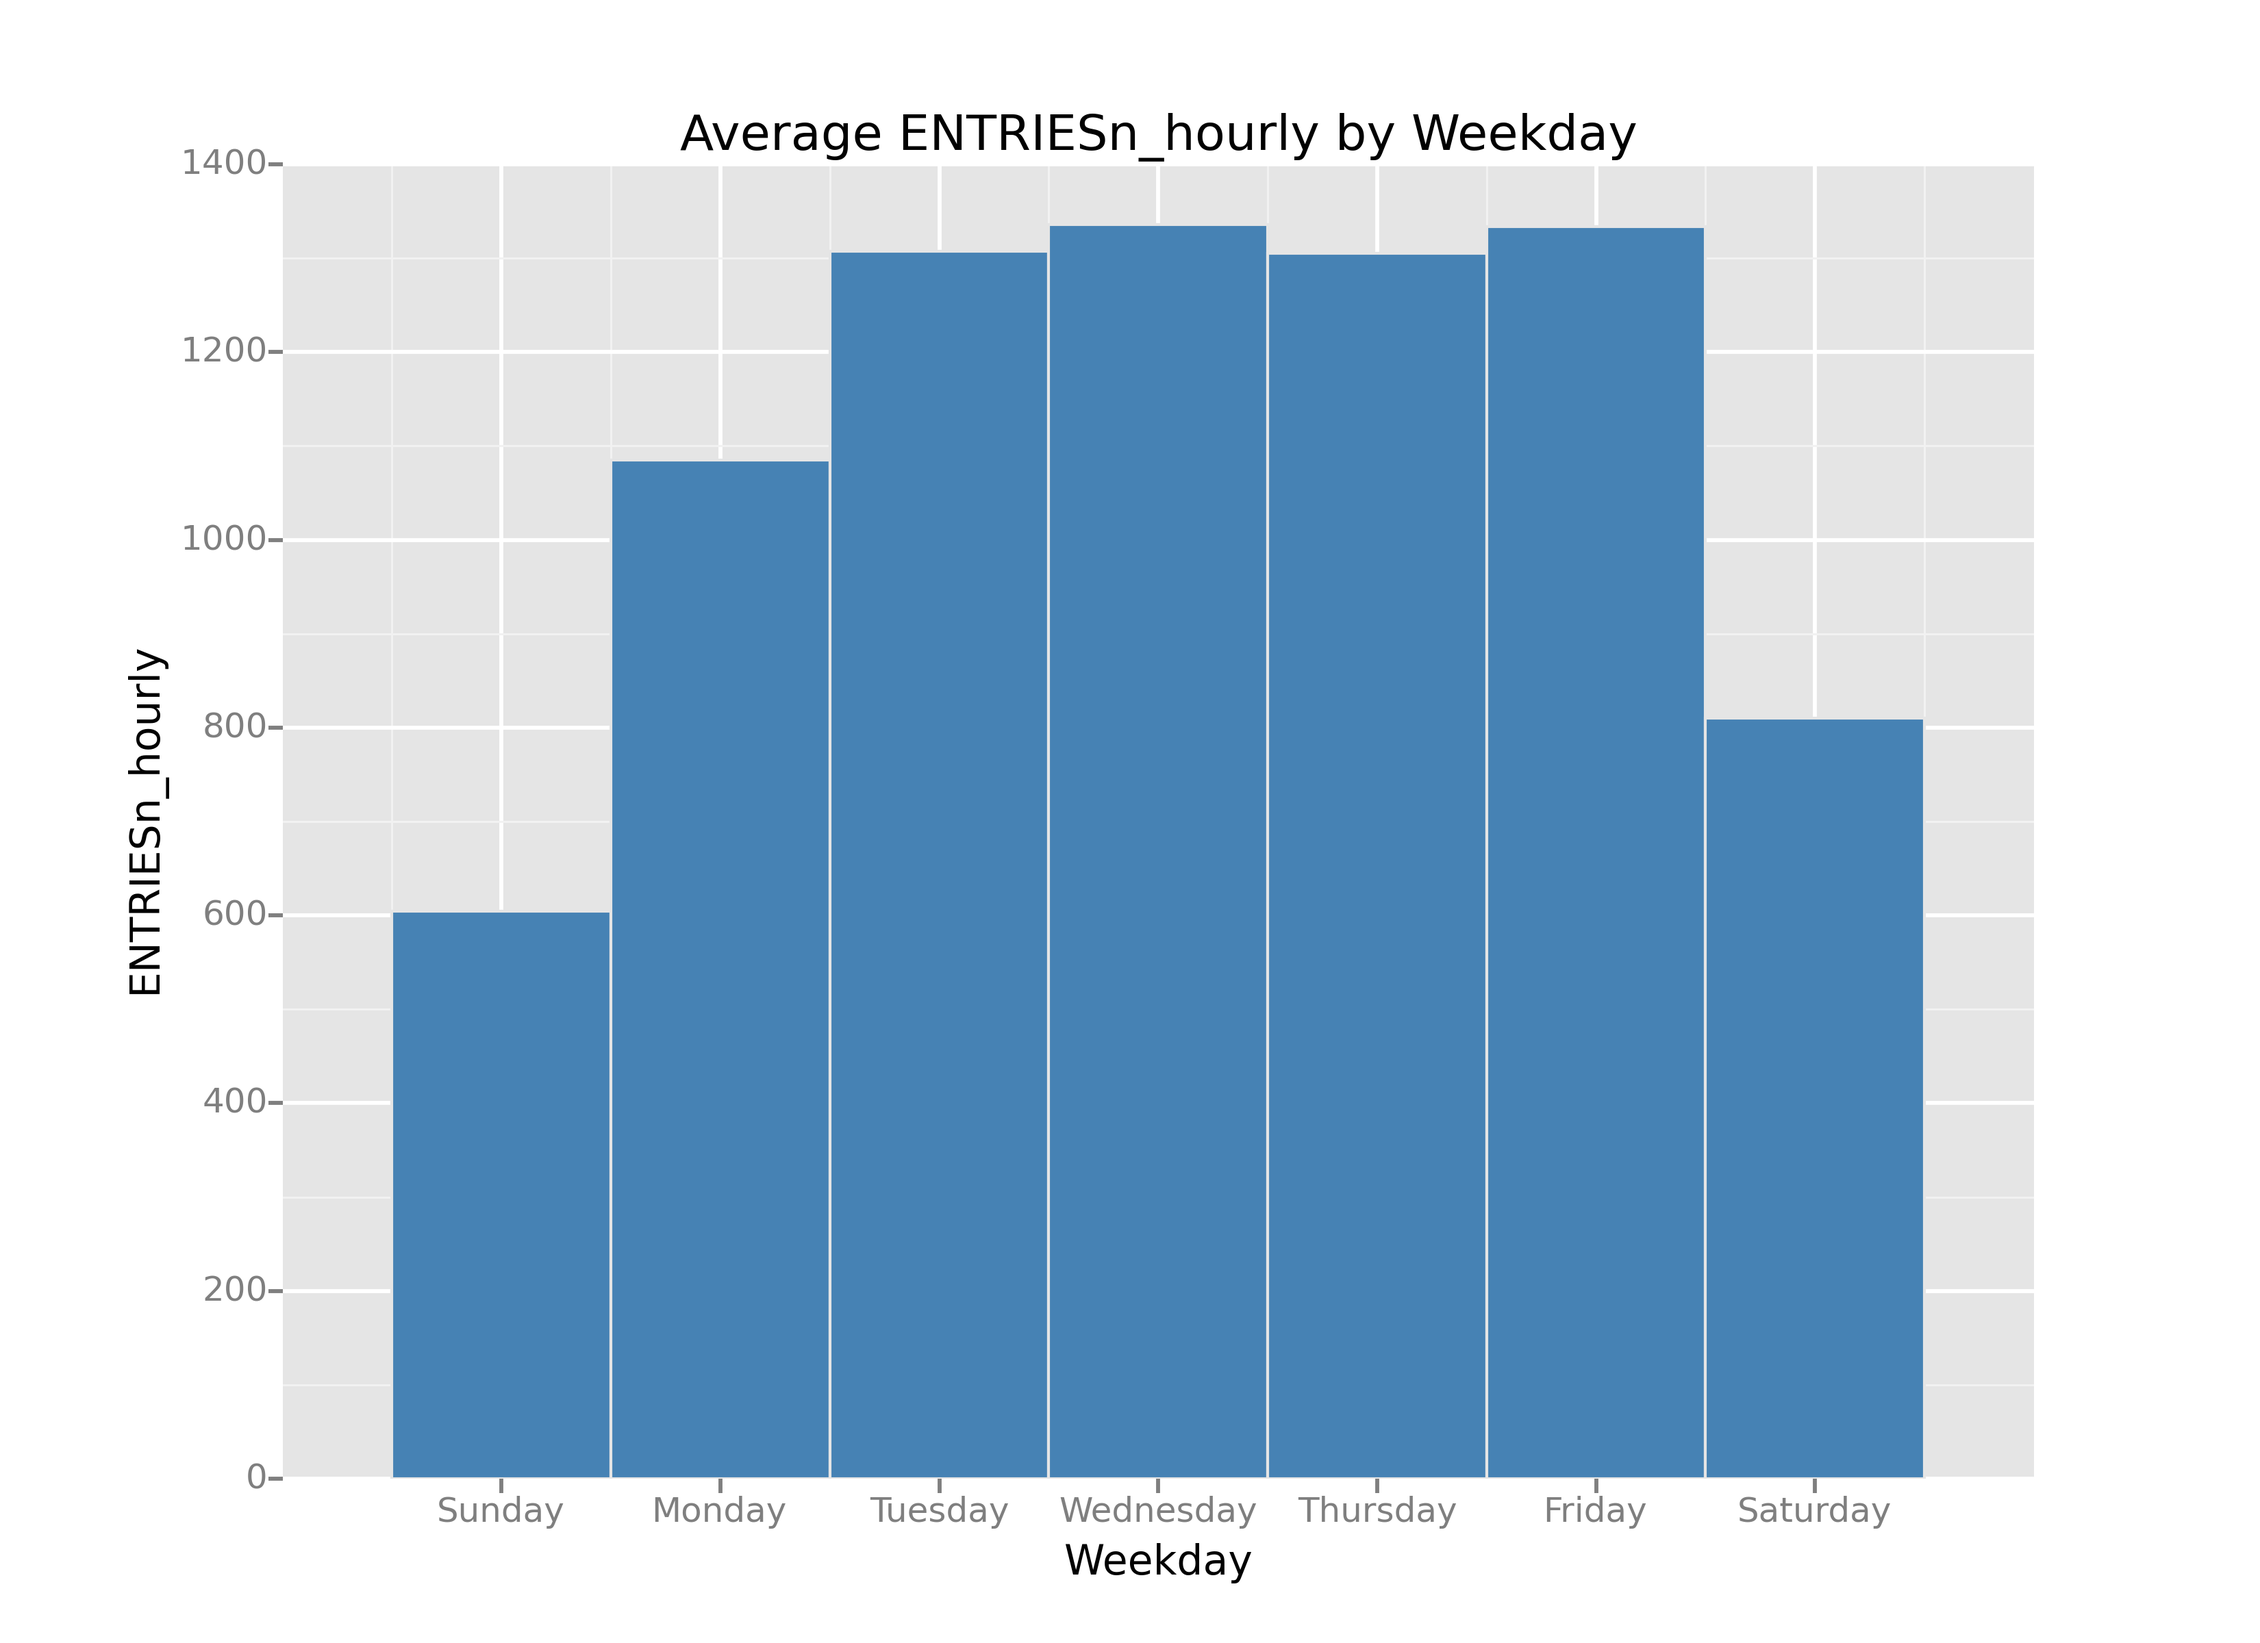
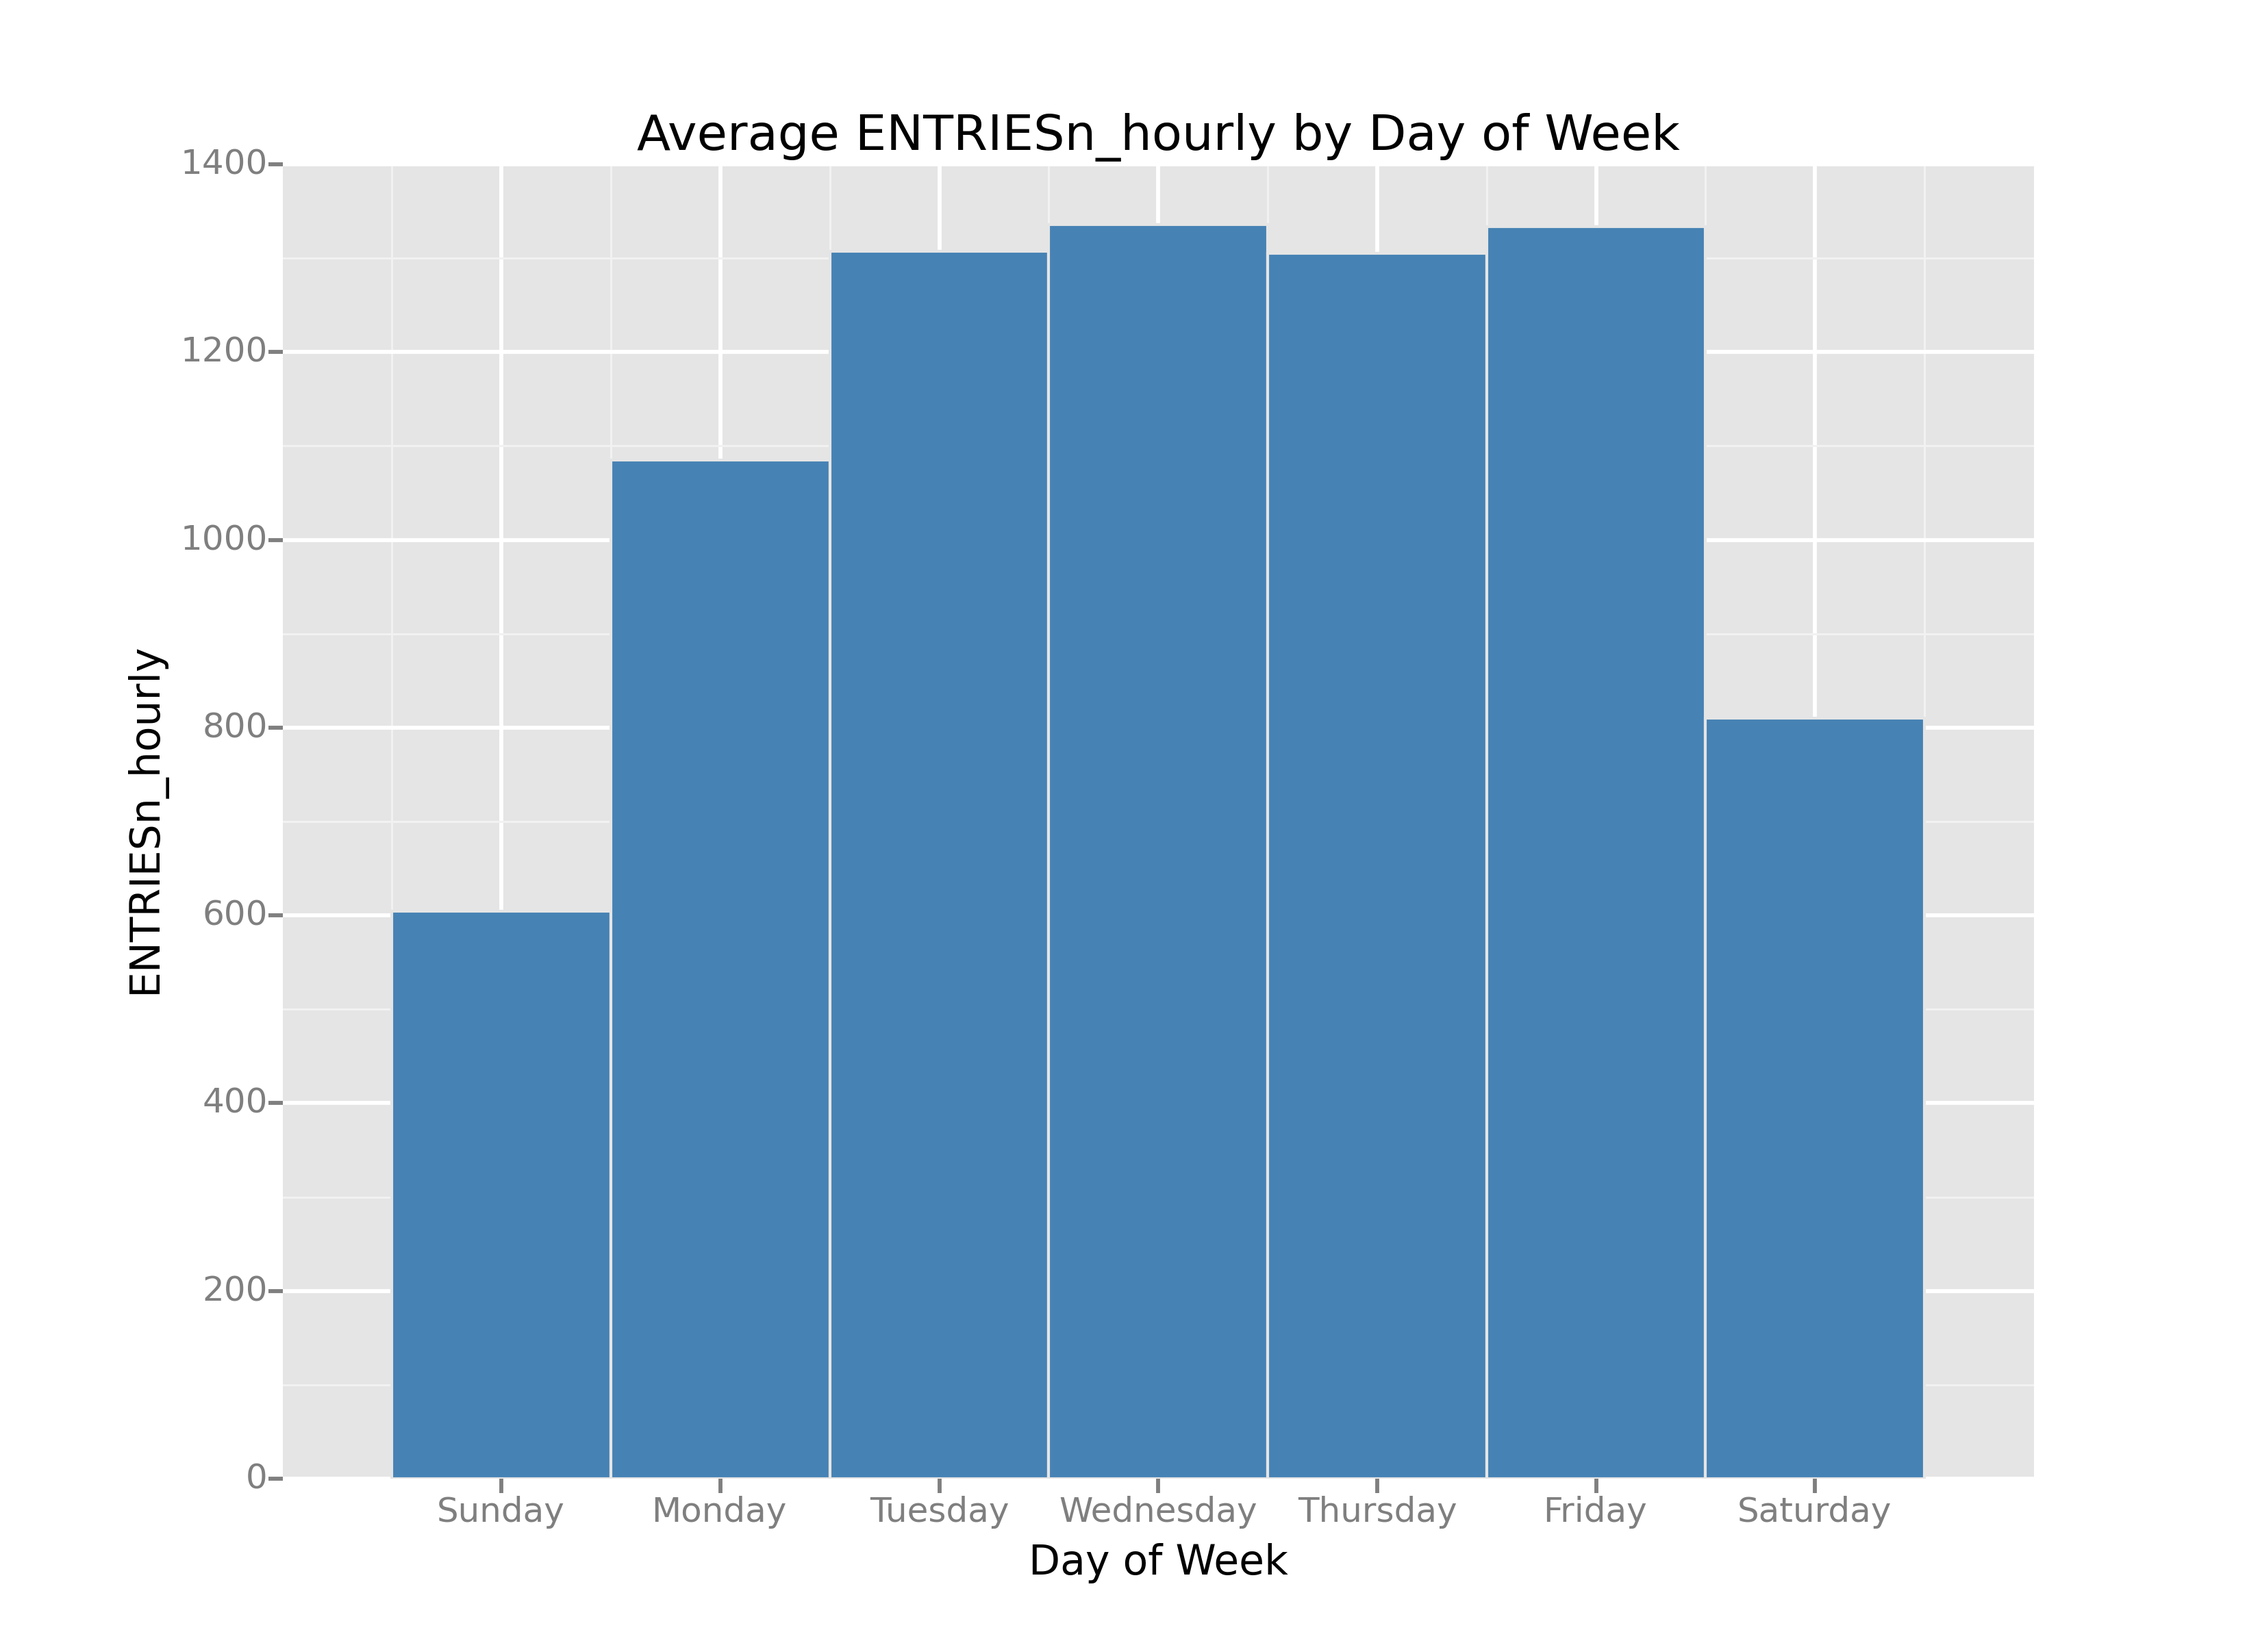
Changed title and axis label
Switched “weekday” to “day of week”

Changed region(s): [[0.2809, 0.0625, 0.7491, 0.0938], [0.437, 0.9375, 0.5618, 0.9688]]

diff --git a/project_4/exercise_1/data_visualization.py b/project_4/exercise_1/data_visualization.py
@@ -44,7 +44,7 @@ def plot_weather_data(turnstile_weather):
 
     plot = ggplot(rainy_days, aes('weekday', 'hourlyentries')) + \
             geom_bar(fill = 'steelblue', stat='bar') + \
-            scale_x_continuous(name="Weekday", 
+            scale_x_continuous(name="Day of Week", 
                                 breaks=[0, 1, 2, 3, 4, 5, 6], 
                                 labels=["Sunday", 
                                         "Monday",
@@ -53,7 +53,7 @@ def plot_weather_data(turnstile_weather):
                                         "Thursday", 
                                         "Friday", 
                                         "Saturday"]) + \
-            ggtitle("Average ENTRIESn_hourly by Weekday") + \
+            ggtitle("Average ENTRIESn_hourly by Day of Week") + \
             ylab("ENTRIESn_hourly")
 
     return plot
